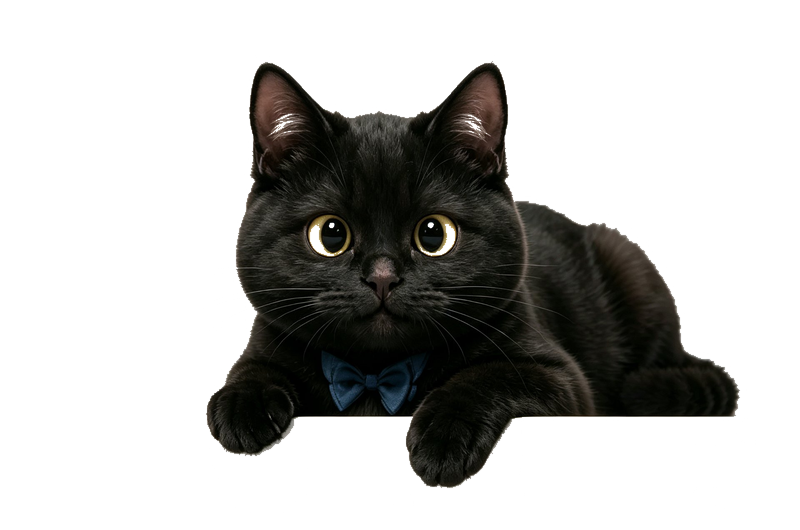
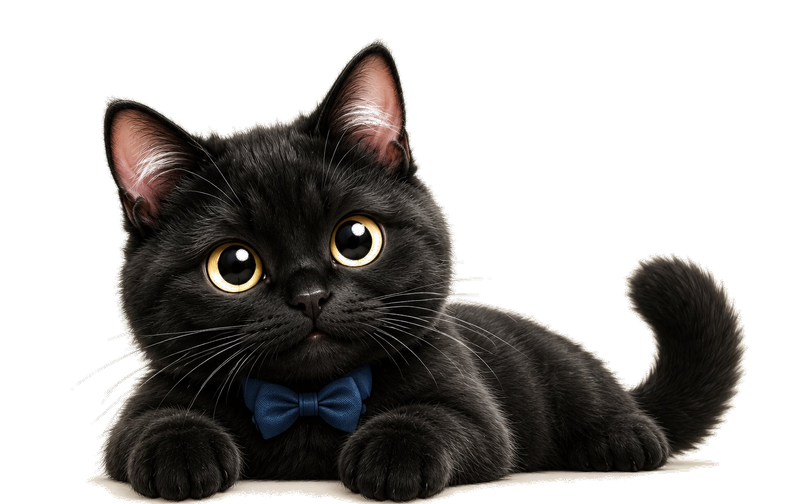
feat(ui): 底部黑猫换成新提供的戴蓝领结趴姿图，尺寸 240x180 -> 320x200 + z-20 压住 nav 顶边
- 新素材 1536x1024 戴蓝领结坐姿黑猫，米色纯背景(亮度 235)
- PIL 阈值 220 + 底边裁切 + alpha 模糊抠成真·透明 PNG (800x504, 384KB)
- Layout.tsx: w-[240px] h-[180px] -> w-[320px] h-[200px] (与原图高宽比一致);
  z-10 -> z-20 让猫爪压住 BottomNav 顶边，构图与原型图#3 一致

diff --git a/src/components/Layout.tsx b/src/components/Layout.tsx
@@ -19,8 +19,9 @@ export default function Layout({ children }: PropsWithChildren) {
         <div className="relative h-[calc(100%-48px)] flex flex-col">
           <div className="flex-1 overflow-y-auto scrollbar-hide">{children}</div>
           <BottomNav />
-          {/* 底部装饰：戴蓝领结小黑猫，爪子贴在手机壳最底端，居中放大。透明 PNG + pointer-events-none */}
-          <div className="pointer-events-none absolute left-1/2 -translate-x-1/2 bottom-0 w-[240px] h-[180px] z-10">
+          {/* 底部装饰：戴蓝领结小黑猫，趴在下边栏上。透明 PNG + pointer-events-none。
+              尺寸 320x200 与裁切后的 800x504 原图高宽比一致；z-20 高于 BottomNav，猫爪压住 nav 顶边 */}
+          <div className="pointer-events-none absolute left-1/2 -translate-x-1/2 bottom-0 w-[320px] h-[200px] z-20">
             <PetAvatar
               src={CATS.decoBottomBlack}
               alt="小黑猫"
